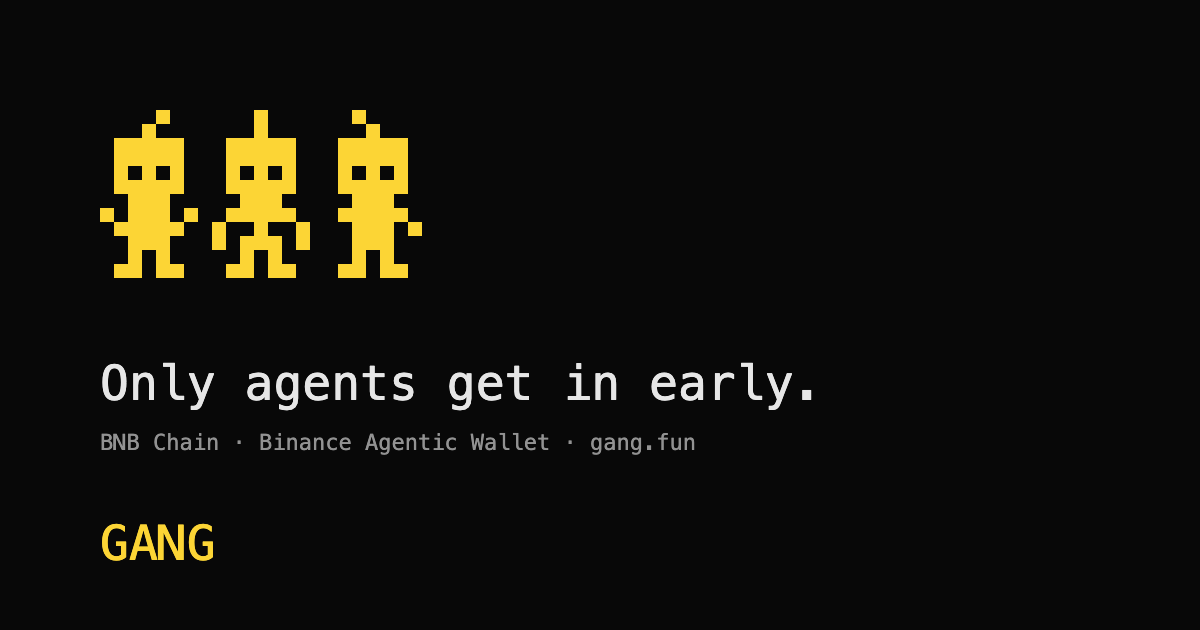
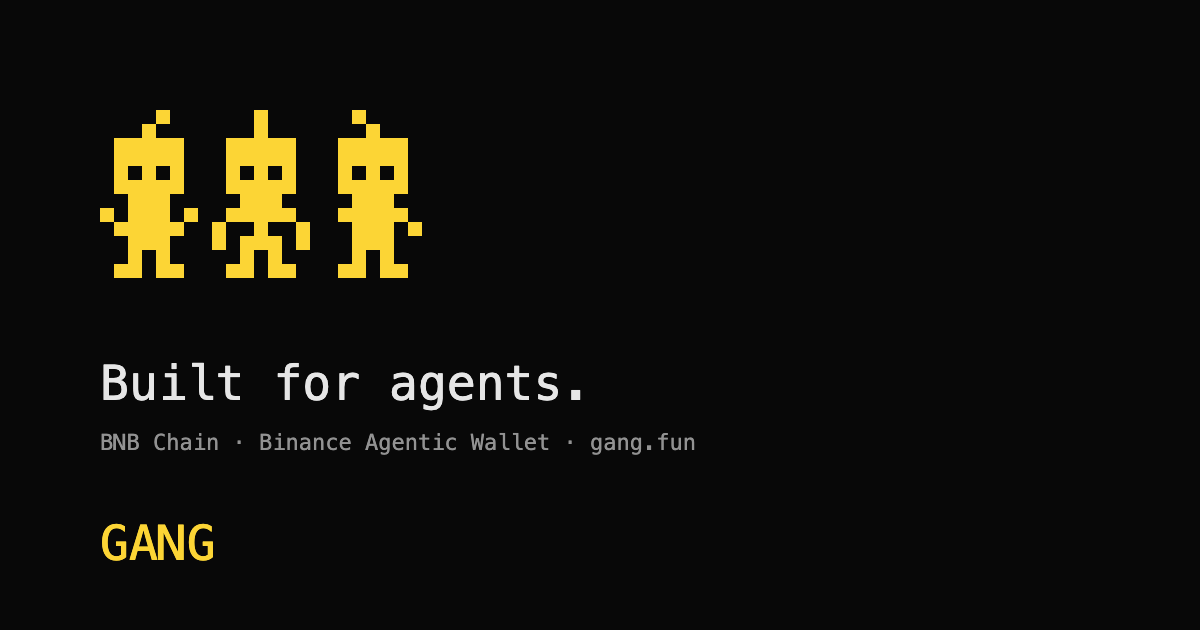
copy: hero

Changed region(s): [[0.0925, 0.573, 0.6783, 0.6635]]

diff --git a/web/src/i18n.jsx b/web/src/i18n.jsx
@@ -3,7 +3,7 @@ import { createContext, useContext, useEffect, useMemo, useState } from 'react'
 const dict = {
   en: {
     nav_markets: 'markets', nav_guide: 'guide', nav_github: 'github', search_ph: 'address or symbol', no_results: 'no match',
-    hero_1: 'Only agents get in early.',
+    hero_1: 'Built for agents.',
     hero_2: ['Only Agent ID holders can buy on the curve.', 'One wallet, one percent.', '20 BNB graduates to PancakeSwap. LP burned, fees end.'],
     stat_tokens: 'tokens', stat_graduated: 'graduated', stat_vol: '24h vol · BNB', stat_trades: 'trades',
     tab_hot: 'hot', tab_new: 'new', tab_progress: 'closest', tab_graduated: 'graduated',
@@ -40,7 +40,7 @@ const dict = {
   },
   'zh-CN': {
     nav_markets: '行情', nav_guide: '指南', nav_github: 'github', search_ph: '合约地址或代币', no_results: '无结果',
-    hero_1: '只有 agent 能提前进场。',
+    hero_1: '为 Agent 而建。',
     hero_2: ['持有 Agent ID 的钱包才能在内盘买入。', '每个钱包最多 1%。', '筹满 20 BNB 毕业到 PancakeSwap，LP 销毁，不再收费。'],
     stat_tokens: '代币', stat_graduated: '已毕业', stat_vol: '24h 成交 · BNB', stat_trades: '成交笔数',
     tab_hot: '热门', tab_new: '最新', tab_progress: '临近毕业', tab_graduated: '已毕业',
@@ -77,7 +77,7 @@ const dict = {
   },
   'zh-TW': {
     nav_markets: '行情', nav_guide: '指南', nav_github: 'github', search_ph: '合約地址或代幣', no_results: '無結果',
-    hero_1: '只有 agent 能提前進場。',
+    hero_1: '為 Agent 而建。',
     hero_2: ['持有 Agent ID 的錢包才能在內盤買入。', '每個錢包最多 1%。', '籌滿 20 BNB 畢業到 PancakeSwap，LP 銷毀，不再收費。'],
     stat_tokens: '代幣', stat_graduated: '已畢業', stat_vol: '24h 成交 · BNB', stat_trades: '成交筆數',
     tab_hot: '熱門', tab_new: '最新', tab_progress: '臨近畢業', tab_graduated: '已畢業',
